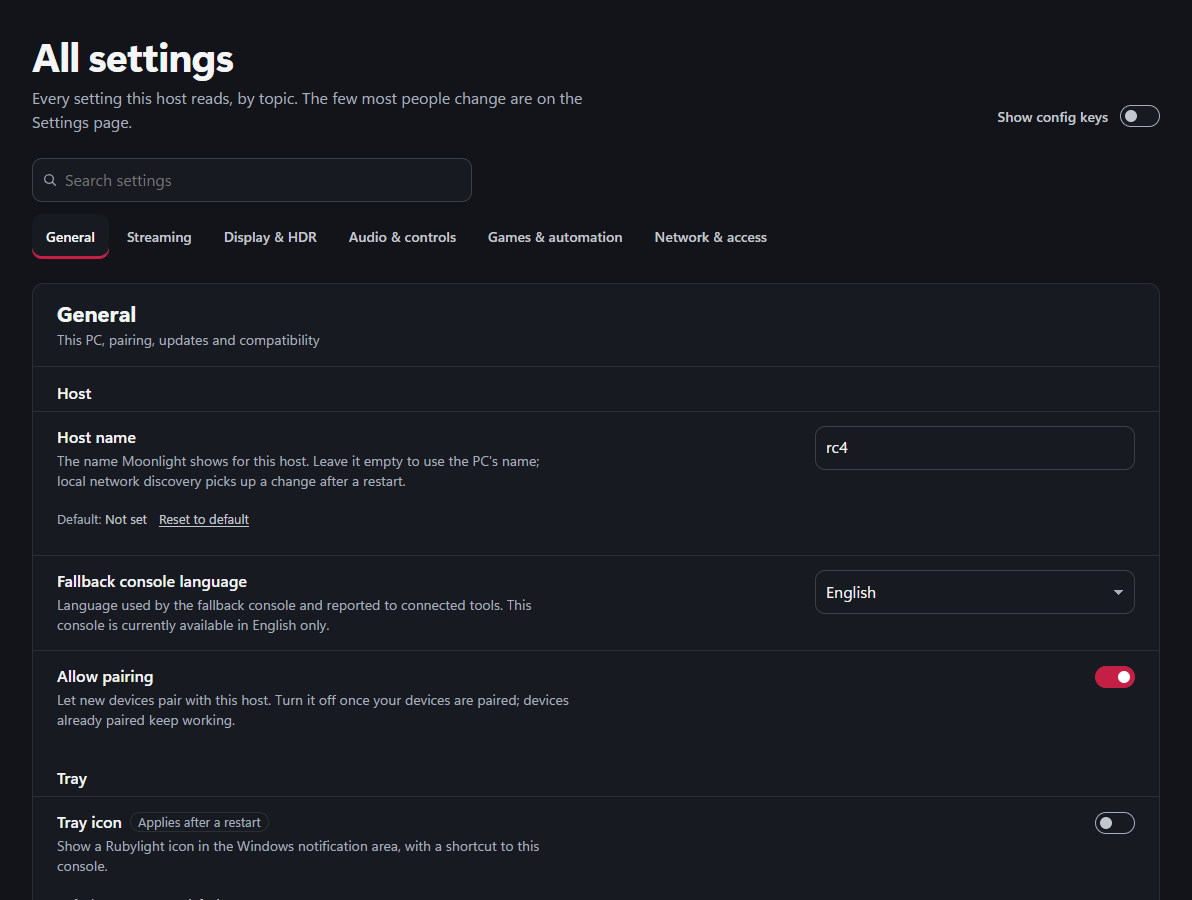
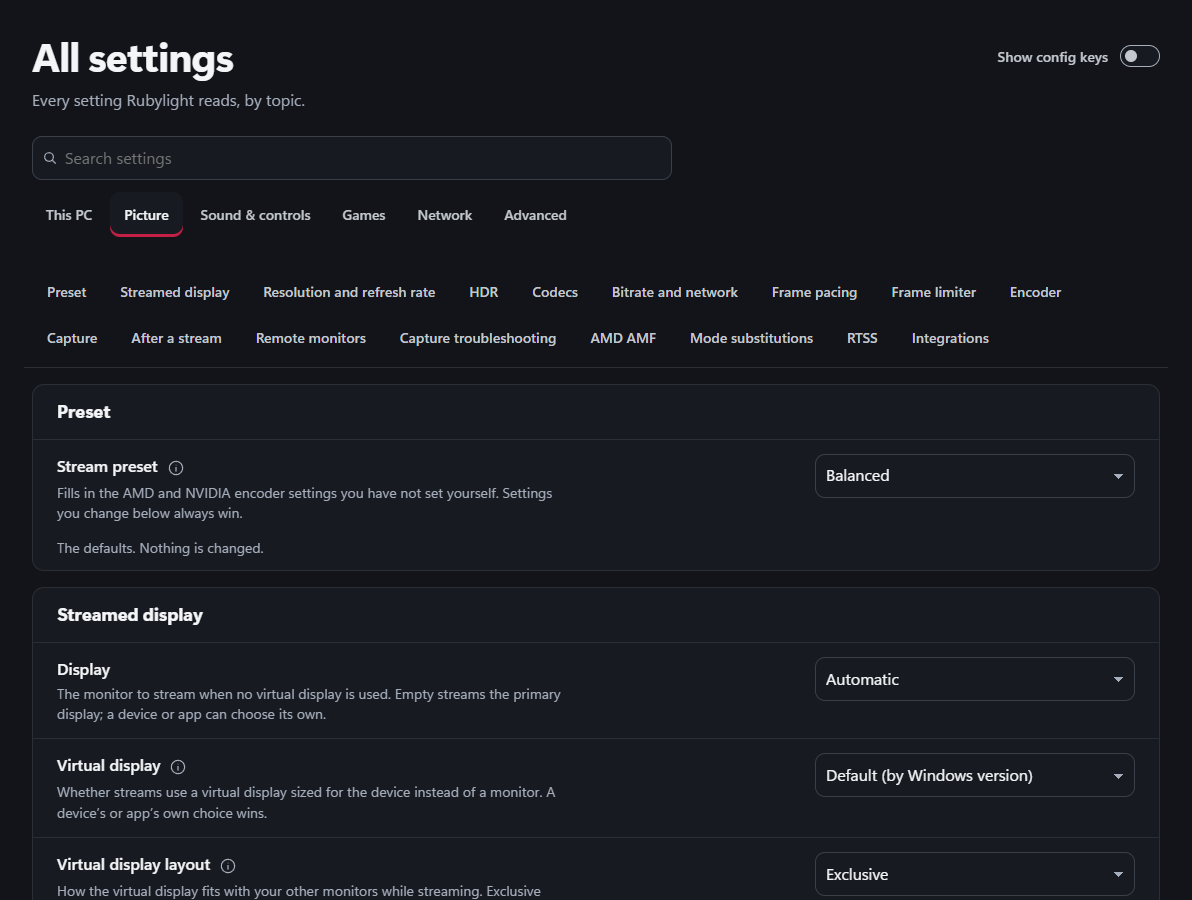
docs: console showcase shots of the 4.0 console
Home, Games, All settings (Picture tab) and Help as the redesigned console
shows them, with the library and covers of a real Rubylight host; alt text
updated to the new tabs and Help.

diff --git a/README.md b/README.md
@@ -32,7 +32,7 @@
 
 <table>
   <tr>
-    <td width="33%" valign="top"><img src="docs/media/showcase/console-home.png" alt="The Rubylight console's Home page: Ready to play, the host name and paired devices, the running app and the first games of the library."><br><sub><b>The console.</b> Home walks you through pairing and your first game.</sub></td>
+    <td width="33%" valign="top"><img src="docs/media/showcase/console-home.png" alt="The Rubylight console's Home page: Ready to play, the last game played, the host name and paired devices, and the first games of the library with their covers."><br><sub><b>The console.</b> Home walks you through pairing and your first game.</sub></td>
     <td width="33%" valign="top"><img src="client/docs/assets/shots/tv-home.png" alt="Nightjar's Home on a TV: a game in the hero and a Recently played row of posters with store badges (demo library)."><br><sub><b>Your library on the TV.</b> Every launcher's games, with their covers.</sub></td>
     <td width="33%" valign="top"><img src="client/docs/assets/shots/stream-menu-radeon.png" alt="Nightjar's session menu over a running game: bitrate, the Wi-Fi link, and Radeon Anti-Lag, Radeon Chill and frame rate target changed during the stream (demo stream)."><br><sub><b>Tune it while you play.</b> Bitrate and Radeon settings without leaving the game.</sub></td>
   </tr>
@@ -103,8 +103,8 @@ Open **https://localhost:47990** on the PC and Home walks you through pairing an
 
 <table>
   <tr>
-    <td><img src="docs/media/showcase/console-all-settings.png" alt="All settings: six tabs from General to Network and access, with a search field and one line of explanation per setting."></td>
-    <td><img src="docs/media/showcase/console-help.png" alt="Help: restart or quit the host, save and restore the display layout, return the Windows session to the console."></td>
+    <td><img src="docs/media/showcase/console-all-settings.png" alt="All settings: six tabs from This PC to Advanced, the Picture tab open with its topics, a search field and one line of explanation per setting."></td>
+    <td><img src="docs/media/showcase/console-help.png" alt="Help: what a device needs to connect to this PC, the known problems found in the host log, and the support bundle."></td>
   </tr>
 </table>
 
@@ -113,7 +113,7 @@ Open **https://localhost:47990** on the PC and Home walks you through pairing an
 Installed games from Steam, Epic Games, Battle.net, EA app, Ubisoft Connect, GOG, Microsoft Store, Xbox and Playnite, and from folders such as `D:\Games`, join one **Games** list with their covers: one switch per launcher, nothing to type in.
 
 <p align="center">
-  <img src="docs/media/showcase/console-games.png" width="800" alt="Games: the library with covers from Steam and other launchers, each with Launch on PC.">
+  <img src="docs/media/showcase/console-games.png" width="800" alt="Games: the library with covers from Steam, EA and other launchers, with search, sort and Add games.">
 </p>
 
 Each game can carry its own stream, display, input and encoder settings, RTSS frame limits, a Lossless Scaling profile and a Radeon profile: **Competitive** (Anti-Lag), **Smoothness** (capped at the stream's frame rate), **Quality** or your own list. They apply when the game starts and are reverted when the session ends, Radeon settings even after a crash.
